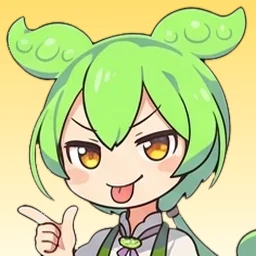
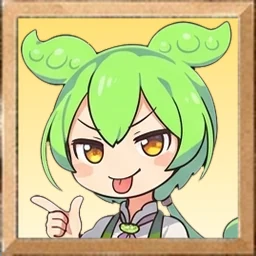
ずんだもん画像に木枠を焼き込み・あなたの名前枠の右端が切れる問題を修正
Claude-Session: https://claude.ai/code/session_015fwoRN5EZXb2K7SzR6LxUP

diff --git a/mahjong/native/app/nui.js b/mahjong/native/app/nui.js
@@ -335,7 +335,7 @@
     // 副露
     drawMelds(P[2], 520, 34, 16, 22); drawMelds(P[3], 3, 312 - meldWH(P[3], 16, 22), 16, 22); drawMelds(P[1], 694, 312 - meldWH(P[1], 16, 22), 16, 22);
     // 名札(横長の板)
-    drawBar(g, P[2], 190, 3, 322, 28, 0); drawBar(g, P[3], 35, 21, 27, 280, 90); drawBar(g, P[1], 643, 21, 27, 280, 270); drawBar(g, P[0], 452, 317, 270, 34, 0);
+    drawBar(g, P[2], 190, 3, 322, 28, 0); drawBar(g, P[3], 35, 21, 27, 280, 90); drawBar(g, P[1], 643, 21, 27, 280, 270); drawBar(g, P[0], 446, 317, 262, 34, 0);
     // 季節牌(花牌)をもっている人は、名札のそばに小さく並べる
     P.forEach((p) => { const fl = p.flowers || []; fl.forEach((f, i) => { const [fx, fy] = p.seat === 0 ? [448 - (i + 1) * 20, 324] : p.seat === 2 ? [518 + i * 20, 5] : p.seat === 3 ? [36 + i * 20, 304] : [640 + i * 20, 304]; tile(f.t, fx, fy, 16, 22, false); }); });
     if (!S.deal) { // 配牌のあいだは、中央の情報を出さない(山の輪を見せるため)

diff --git a/mahjong/tools/cut_zunda.py b/mahjong/tools/cut_zunda.py
@@ -1,6 +1,6 @@
 #!/usr/bin/env python3
 """あなた(ずんだもん)の表情 4×4 の絵(背景なし・tools/zunda_sheet3.webp)を、16枚に切って、背景のグラデーションを重ねて
-img/zunda/01〜16.webp にする。 使い方: python3 tools/cut_zunda.py [--top R,G,B] [--bottom R,G,B]   (Pillow と numpy が必要)
+img/zunda/01〜16.webp にする。 木の枠(tools/zunda_frame.png)を重ねて、CPUの顔と同じ見た目にする。 使い方: python3 tools/cut_zunda.py [--top R,G,B] [--bottom R,G,B]   (Pillow と numpy が必要)
 いまの背景は「おひさま」(上: 黄色 → 下: 白に近いクリーム色)。 別の色にするときは --top / --bottom で。
 番号(左上から右へ・下へ): 1 にっこり 2 大喜び 3 考え中 4 やる気 5 牌を見せる 6 びっくり 7 余裕 8 くすくす
                            9 集中 10 ほっ 11 むすっ 12 ? 13 WIN 14 負け 15 ドキドキ 16 ドヤ"""
@@ -32,12 +32,14 @@ def main():
     ap = argparse.ArgumentParser(); rgb = lambda s: tuple(int(x) for x in s.split(','))
     ap.add_argument('--top', type=rgb, default=(255, 222, 110)); ap.add_argument('--bottom', type=rgb, default=(255, 250, 224)); a = ap.parse_args()
     sheet = Image.open(os.path.join(HERE, 'zunda_sheet3.webp')).convert('RGBA'); bg = grad(a.top, a.bottom)
+    fr = Image.open(os.path.join(HERE, 'zunda_frame.png')).convert('RGBA').convert('RGBa').resize((256, 256), Image.LANCZOS).convert('RGBA')   # 木の枠(まん中が あいている)
+    HOLE = 225  # 枠の穴(いちばん内側)よりも少し大きく絵を入れて、枠の下にもぐらせる
     out = os.path.join(ROOT, 'img', 'zunda'); os.makedirs(out, exist_ok=True)
     for j, (y0, y1) in enumerate(YS):
         for i, (x0, x1) in enumerate(XS):
             c = sheet.crop((x0, y0, x1, y1)); s = min(c.size); ox, oy = (c.size[0] - s) // 2, (c.size[1] - s) // 2
-            c = clean(c.crop((ox, oy, ox + s, oy + s)).resize((256, 256), Image.LANCZOS))
-            im = bg.copy().convert('RGBA'); im.alpha_composite(c)
+            c = clean(c.crop((ox, oy, ox + s, oy + s)).resize((HOLE, HOLE), Image.LANCZOS))
+            im = bg.copy().convert('RGBA'); im.alpha_composite(c, ((256 - HOLE) // 2, (256 - HOLE) // 2)); im.alpha_composite(fr)
             im.convert('RGB').save(os.path.join(out, '%02d.webp' % (j * 4 + i + 1)), 'WEBP', quality=88, method=6)
     print('16枚 →', os.path.relpath(out, ROOT))
 
